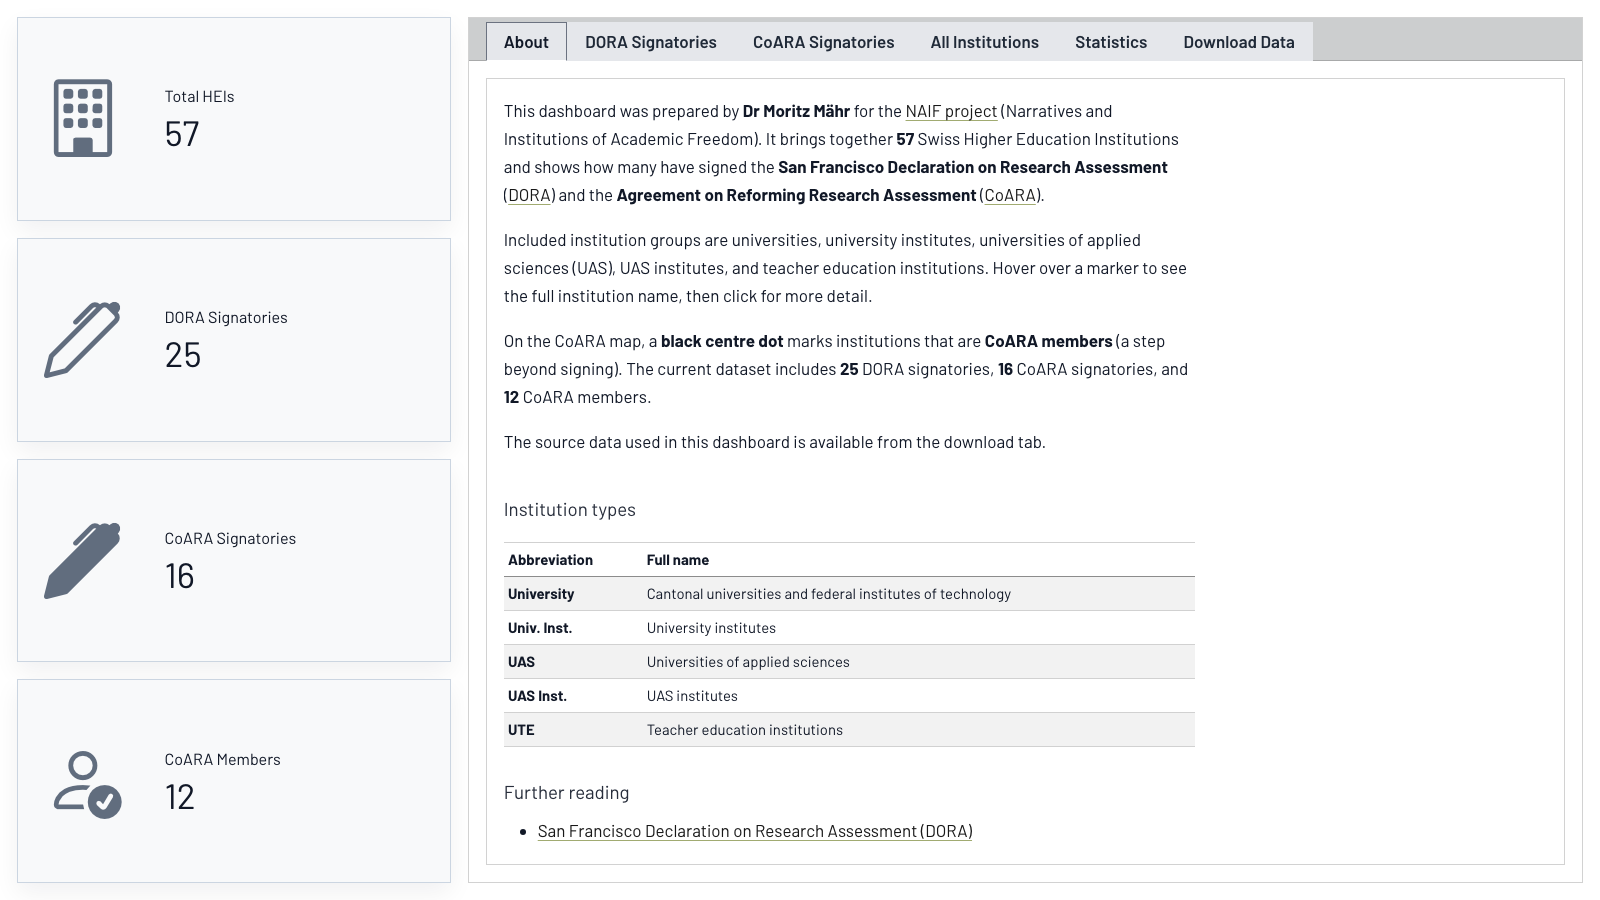
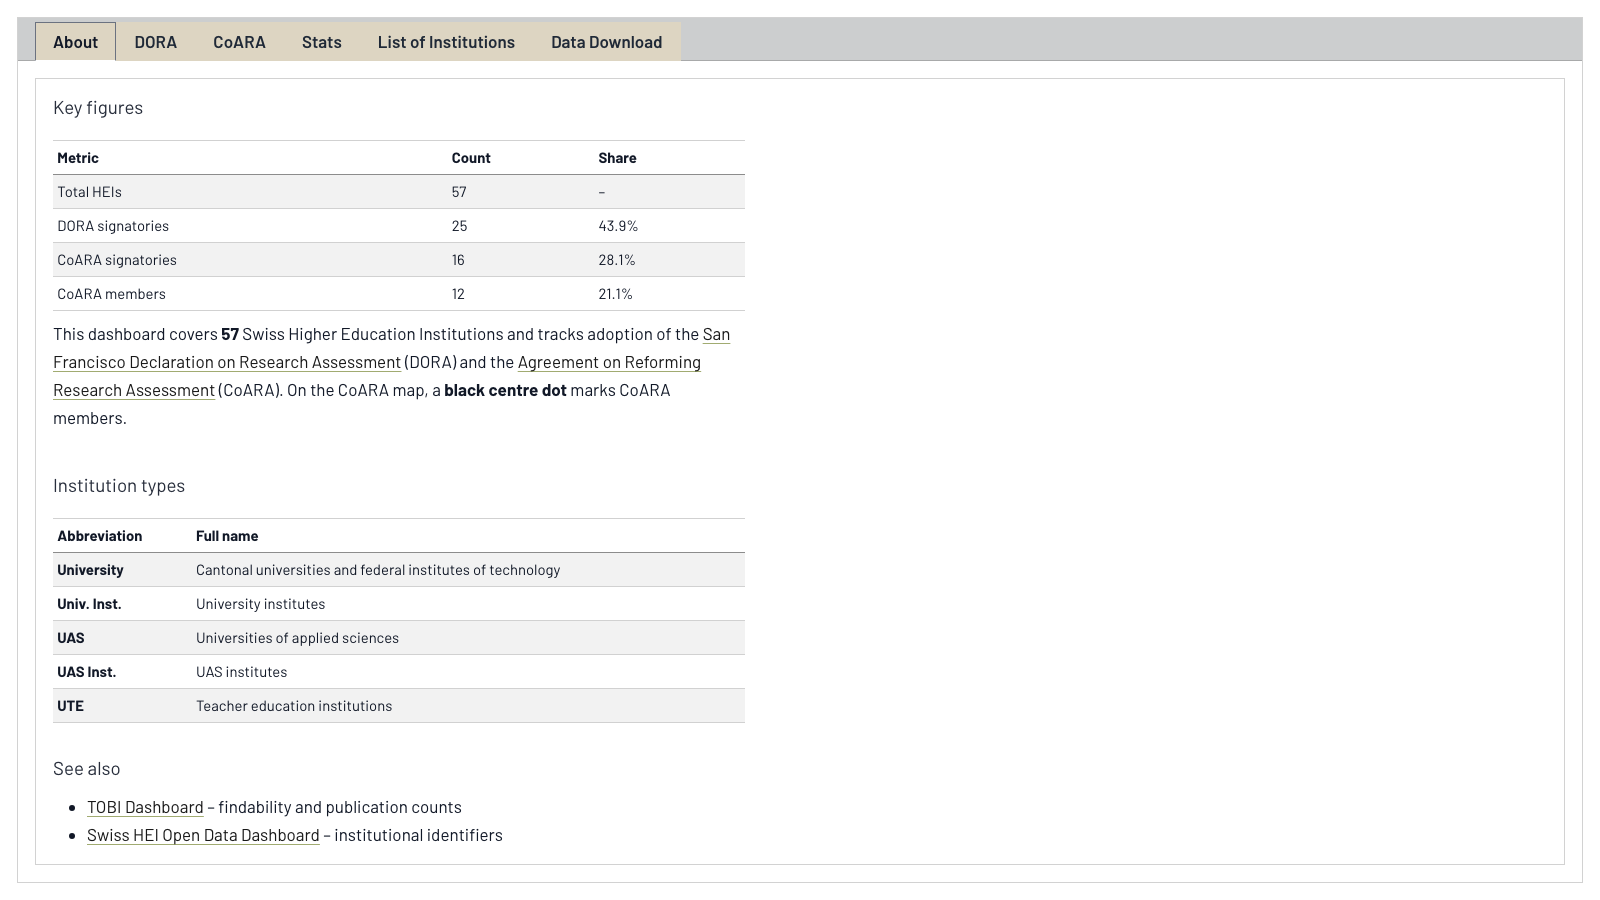
Enhance dashboards with new styles, images, and improved metrics display

diff --git a/dashboards/naif/dashboard-naif.css b/dashboards/naif/dashboard-naif.css
@@ -1,0 +1,16 @@
+/* NAIF dashboard colour overrides — warm beige rgb(232, 225, 208) */
+
+.quarto-dashboard {
+  --dashboard-surface: #e8e1d0;
+  --dashboard-surface-strong: #ddd5c2;
+  --dashboard-border: #c4b89e;
+}
+
+.quarto-dashboard #quarto-dashboard-header .navbar {
+  background: linear-gradient(180deg, #e8e1d0 0%, #ddd5c2 100%) !important;
+  border-bottom: 1px solid var(--dashboard-border);
+}
+
+.quarto-dashboard .dashboard-table-wrap thead th {
+  background: #f2ede3;
+}

diff --git a/dashboards/tobi/dashboard-tobi.css b/dashboards/tobi/dashboard-tobi.css
@@ -1,0 +1,16 @@
+/* TOBI dashboard colour overrides — warm cream rgb(254, 247, 230) */
+
+.quarto-dashboard {
+  --dashboard-surface: #fef7e6;
+  --dashboard-surface-strong: #f7ecd4;
+  --dashboard-border: #e0d4b0;
+}
+
+.quarto-dashboard #quarto-dashboard-header .navbar {
+  background: linear-gradient(180deg, #fef7e6 0%, #f7ecd4 100%) !important;
+  border-bottom: 1px solid var(--dashboard-border);
+}
+
+.quarto-dashboard .dashboard-table-wrap thead th {
+  background: #fffbf2;
+}
